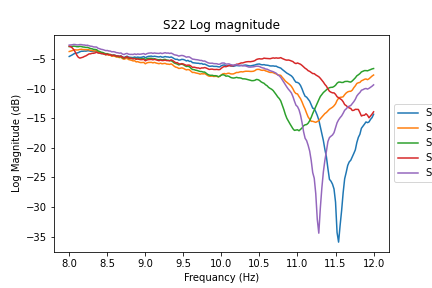
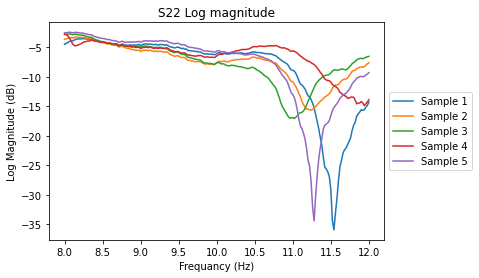
Add files via upload

Changed region(s): [[0.0, 0.0288, 1.0, 0.9784]]

diff --git a/8%CF/45_Degree_100%_8%CF/main.py b/8%CF/45_Degree_100%_8%CF/main.py
@@ -122,7 +122,7 @@ for i in range(N):
     if i == 16:
         plt.plot(x, mag, label = 'Sample4')
         plt.legend(loc='center left', bbox_to_anchor=(1, 0.5))
-    plt.savefig('S11.png')
+    plt.savefig('S11.png', bbox_inches='tight')
         
     plt.title(name_dict[i])
     fig = plt.figure(11)
@@ -152,7 +152,7 @@ for i in range(N):
         plt.plot(x, SER, label = 'Sample5')
 #        plt.plot(x, SER_Tunnel, label = 'tunnel 4')
         plt.legend(loc='center left', bbox_to_anchor=(1, 0.5))
-        plt.savefig('SER.png')
+    plt.savefig('SER.png', bbox_inches='tight')
     
 for i in range(N):
     if i == 0:
@@ -212,7 +212,7 @@ for i in range(N):
     if i == 17:
         plt.plot(x, mag, label = 'Sample5')
         plt.legend(loc='center left', bbox_to_anchor=(1, 0.5))
-        plt.savefig('S21.png')
+    plt.savefig('S21.png', bbox_inches='tight')
         
 S2 = []    
 for i in range(N):
@@ -277,7 +277,7 @@ for i in range(N):
     if i == 18:
         plt.plot(x, mag, label = 'Sample5')
         plt.legend(loc='center left', bbox_to_anchor=(1, 0.5))
-        plt.savefig('S12.png')
+    plt.savefig('S12.png',  bbox_inches='tight')
     plt.title(name_dict[i])
     fig = plt.figure(9)
     plt.title('Total SE')
@@ -302,11 +302,11 @@ for i in range(N):
     if i == 14:
         plt.plot(x, sample, label = 'Sample4')
         plt.legend(loc='center left', bbox_to_anchor=(1, 0.5))
-    if i == 18:
+#    if i == 18:
 #        plt.plot(x, Total_SE, label = 'Sample4')
-        plt.plot(x, sample, label = 'Sample 5')
-        plt.legend(loc='center left', bbox_to_anchor=(1, 0.5))
-        plt.savefig('Total_SE.png')
+#        plt.plot(x, sample, label = 'Sample 5')
+#        plt.legend(loc='center left', bbox_to_anchor=(1, 0.5))
+    plt.savefig('Total_SE.png',  bbox_inches='tight')
 
 for i in range(N):
     if i == 0:
@@ -367,7 +367,7 @@ for i in range(N):
     if i == 19:
         plt.plot(x, mag, label = 'Sample 5')
         plt.legend(loc='center left', bbox_to_anchor=(1, 0.5))
-        plt.savefig('S22.png')
+    plt.savefig('S22.png', bbox_inches='tight')
 #plt.show()
 
 
@@ -457,7 +457,7 @@ plt.plot(x, sample5, label = 'Sample 5')
 plt.legend(loc='center left', bbox_to_anchor=(1, 0.5))
 #print(S1, 'S11')
 #print(S2, 'S22')
-plt.savefig('SEA.png')
+plt.savefig('SEA.png', bbox_inches='tight')
 
 
 
